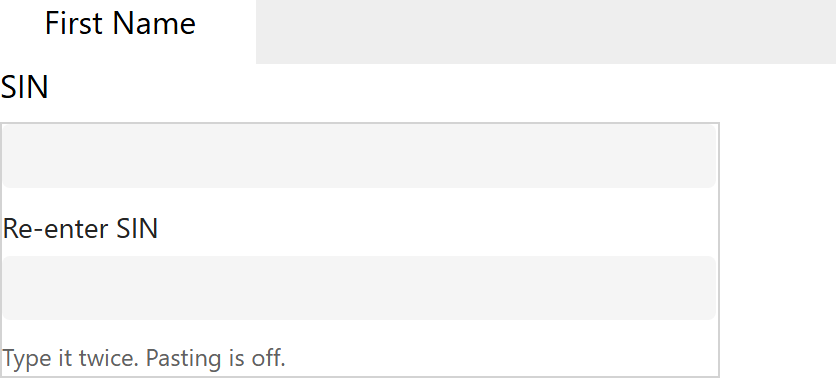
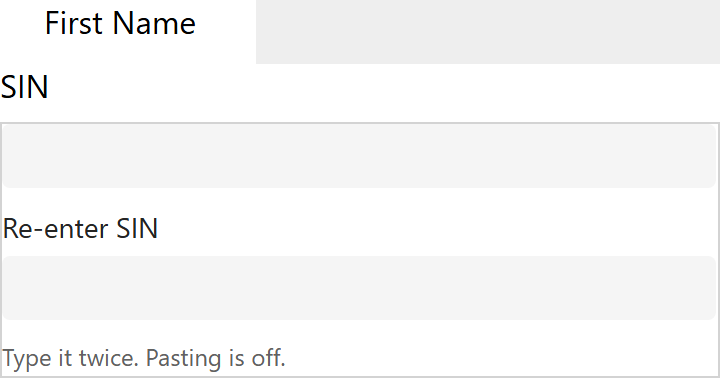
Labels line up with the form: hidden label borrows the section's label column, side by side keeps Re-enter beside
From the user's review of the real form at 1920px. A hidden cell label
makes the first label take the section's own label column, measured from a
sibling cell, so the first input lines up with the stock fields. Side by
side with no first label, "Re-enter" goes beside the second input rather
than above it, so the two inputs share a line. Side by side, each field
grows from its label column so the inputs come out equal, and the input's
grid track is minmax(0, 1fr) so a 248px label column in a narrow cell
shrinks the inputs instead of pushing one over the second label.

Harness: wrapInFormCell takes the control width and the fake label column
and sizes the cell itself, which the tests need to get a side-by-side
layout inside a cell. Manifest 0.3.5 pushed to the test env; the fixture
form shows all nine cells as intended.

diff --git a/SealedInput/SealedInput/SealedInputView.tsx b/SealedInput/SealedInput/SealedInputView.tsx
@@ -40,10 +40,12 @@ const useStyles = makeStyles({
   // Fluent's horizontal Field reserves a third of the width for the label
   // (and pads a label-less field by as much); ours is a word or two, and the
   // measured width goes in as an inline style once known.
-  fieldInline: { gridTemplateColumns: "auto 1fr", paddingLeft: 0 },
+  // minmax(0, 1fr) lets the input shrink below its intrinsic width, which an
+  // <input> keeps otherwise and overflows a narrow cell with.
+  fieldInline: { gridTemplateColumns: "auto minmax(0, 1fr)", paddingLeft: 0 },
   labelText: { whiteSpace: "nowrap" },
   hint: { color: tokens.colorNeutralForeground3 },
-  input: { width: "100%" },
+  input: { width: "100%", minWidth: 0 },
 });
 
 /** Attributes that keep browsers and password managers from filling or remembering the field. */
@@ -84,7 +86,9 @@ export const SealedInputView: React.FC<ISealedInputViewProps> = ({ stored, disab
       // Same answer, same object: a fresh object on every read would re-render
       // without end, since this runs again after each render.
       const next = readFormLabel(el);
-      setFormLabel((prev) => (prev?.shown === next?.shown && prev?.position === next?.position && (prev === null) === (next === null) ? prev : next));
+      setFormLabel((prev) =>
+        prev?.shown === next?.shown && prev?.position === next?.position && prev?.labelWidth === next?.labelWidth && (prev === null) === (next === null) ? prev : next,
+      );
     };
     read();
     if (typeof ResizeObserver === "undefined") return;
@@ -93,30 +97,46 @@ export const SealedInputView: React.FC<ISealedInputViewProps> = ({ stored, disab
     return () => ro.disconnect();
   }, []);
   const side = sideBySide(layout, width);
-  const labels = planLabels(label, formLabel);
+  const labels = planLabels(label, formLabel, side);
+  // An unlabelled first field takes the second field's orientation, so that
+  // stacked it can be indented to line up and side by side it stays on the line.
+  const firstInline = labels.first === null ? labels.secondInline : labels.firstInline;
   // Classes are combined with mergeClasses, never by string: two Griffel
   // sequences side by side leave the cascade to stylesheet insertion order,
   // which differs between page loads in the form host.
-  const fieldClass = mergeClasses(styles.field, labels.inline && styles.fieldInline);
-  const orientation = labels.inline ? "horizontal" : "vertical";
+  const firstClass = mergeClasses(styles.field, firstInline && styles.fieldInline);
+  const secondClass = mergeClasses(styles.field, labels.secondInline && styles.fieldInline);
 
-  // Inline labels: the two fields are separate grids, so they are given the
-  // same label column, as wide as the wider label text plus Fluent's label
-  // margin. Stacked, a label-less first field is indented by the same amount
-  // so the two inputs line up; side by side it takes its whole half.
+  // Label columns for labels beside their field. The first label's column is
+  // the form's own label column when a hidden cell label left it to us, so the
+  // first input lines up with the neighbouring cells; otherwise the text plus
+  // Fluent's label margin. The second label's column is its text. Stacked with
+  // both labels beside, the two fields share the wider column so the inputs
+  // line up; stacked with no first label, the first field is indented by the
+  // second's column for the same reason.
   const firstLabelRef = React.useRef<HTMLSpanElement>(null);
   const secondLabelRef = React.useRef<HTMLSpanElement>(null);
-  const [labelCol, setLabelCol] = React.useState(0);
+  const [cols, setCols] = React.useState({ first: 0, second: 0 });
   React.useLayoutEffect(() => {
-    if (!labels.inline) return;
-    const widths = [firstLabelRef.current, secondLabelRef.current].map((el) => el?.getBoundingClientRect().width ?? 0);
-    const col = Math.ceil(Math.max(...widths)) + 12; // spacingHorizontalM
-    if (col !== labelCol) setLabelCol(col);
-  }, [labels.inline, labels.first, labels.second, side]);
-  const fieldStyle = labels.inline && labelCol > 0 ? { gridTemplateColumns: `${labelCol}px 1fr` } : undefined;
-  // Without a label the input would land in the label column; give it the only column.
+    const textCol = (el: HTMLElement | null) => Math.ceil(el?.getBoundingClientRect().width ?? 0) + 12; // spacingHorizontalM
+    const formCol = formLabel?.labelWidth ?? 0;
+    const own = labels.first !== null && labels.firstInline ? (formCol > 0 ? formCol : textCol(firstLabelRef.current)) : 0;
+    const re = labels.secondInline ? textCol(secondLabelRef.current) : 0;
+    const shared = !side && own > 0 && re > 0 ? Math.max(own, re) : null;
+    const next = { first: shared ?? own, second: shared ?? re };
+    if (next.first !== cols.first || next.second !== cols.second) setCols(next);
+  }, [labels.first, labels.second, labels.firstInline, labels.secondInline, side, formLabel]);
+  // Side by side, each field's share of the line grows from its label column,
+  // so the two inputs come out the same width.
+  const grow = (col: number) => (side ? { flex: `1 1 ${col}px` } : {});
+  const secondFieldStyle = labels.secondInline && cols.second > 0 ? { gridTemplateColumns: `${cols.second}px minmax(0, 1fr)`, ...grow(cols.second) } : undefined;
   const firstFieldStyle =
-    labels.inline && labels.first === null ? { gridTemplateColumns: "1fr", paddingLeft: !side && labelCol > 0 ? `${labelCol}px` : 0 } : fieldStyle;
+    labels.first !== null && labels.firstInline && cols.first > 0
+      ? { gridTemplateColumns: `${cols.first}px minmax(0, 1fr)`, ...grow(cols.first) }
+      : // Without a label the input would land in the label column; give it the only column.
+        labels.first === null && firstInline
+        ? { gridTemplateColumns: "minmax(0, 1fr)", paddingLeft: !side && cols.second > 0 ? `${cols.second}px` : 0, ...grow(0) }
+        : undefined;
   // Fluent's Label lays its children out as a list, hence the key.
   const labelNode = (text: string | null, ref: React.RefObject<HTMLSpanElement>) =>
     text === null ? undefined : (
@@ -262,15 +282,15 @@ export const SealedInputView: React.FC<ISealedInputViewProps> = ({ stored, disab
       data-layout={side ? "side-by-side" : "stacked"}
       data-state={state}
       data-labels={labels.first === null ? "reenter-only" : "both"}
-      data-label-position={labels.inline ? "inline" : "above"}
+      data-label-position={labels.secondInline ? "inline" : "above"}
       data-form-label={formLabel === null ? "none" : formLabel.shown ? "shown" : "hidden"}
       ref={rootRef}
     >
       <div className={mergeClasses(styles.fields, side && styles.fieldsSide)}>
         <Field
           label={labelNode(labels.first, firstLabelRef)}
-          orientation={orientation}
-          className={fieldClass}
+          orientation={firstInline ? "horizontal" : "vertical"}
+          className={firstClass}
           style={firstFieldStyle}
           validationState={firstError ? "error" : "none"}
           validationMessage={firstError ?? undefined}
@@ -294,9 +314,9 @@ export const SealedInputView: React.FC<ISealedInputViewProps> = ({ stored, disab
         </Field>
         <Field
           label={labelNode(labels.second, secondLabelRef)}
-          orientation={orientation}
-          className={fieldClass}
-          style={fieldStyle}
+          orientation={labels.secondInline ? "horizontal" : "vertical"}
+          className={secondClass}
+          style={secondFieldStyle}
           validationState={secondError ? "error" : "none"}
           validationMessage={secondError ?? undefined}
         >

diff --git a/SealedInput/SealedInput/formLabel.ts b/SealedInput/SealedInput/formLabel.ts
@@ -1,4 +1,4 @@
-import { Box, FormLabel, labelPlacement } from "./sealedInput";
+import { Box, FormLabel, Placement, labelPlacement } from "./sealedInput";
 
 // Reads the form's own cell label from the DOM around the control. Unified
 // Interface puts each field in a container whose data-id ends in
@@ -26,14 +26,17 @@ function cellLabel(container: Element, except: Element | null): HTMLLabelElement
   return labels.find((l) => l.id.endsWith("-field-label")) ?? labels[0] ?? null;
 }
 
-/** Where a sibling cell's label sits relative to that cell's control area. */
-function siblingPlacement(container: Element): FormLabel["position"] {
+/**
+ * Where a sibling cell's label sits relative to that cell's control area, and
+ * how far that area starts from the cell's left edge (the label column).
+ */
+function siblingPlacement(container: Element): { position: Placement; areaOffset: number } | null {
   const label = cellLabel(container, null);
   if (!label || !visible(label)) return null;
   // The label's wrapper is followed by the control area.
   const area = label.parentElement?.nextElementSibling;
   if (!area || !visible(area)) return null;
-  return labelPlacement(box(label), box(area));
+  return { position: labelPlacement(box(label), box(area)), areaOffset: box(area).left - box(container).left };
 }
 
 /** What the form shows for this control's cell, or null outside a recognised form cell. */
@@ -41,13 +44,18 @@ export function readFormLabel(root: HTMLElement): FormLabel | null {
   const container = root.closest(CONTAINER);
   if (!container) return null;
   const label = cellLabel(container, root);
-  if (label && visible(label)) return { shown: true, position: labelPlacement(box(label), box(root)) };
-  // Label hidden for this cell: borrow the position from another cell in the section.
+  if (label && visible(label)) return { shown: true, position: labelPlacement(box(label), box(root)), labelWidth: null };
+  // Label hidden for this cell: borrow the position and the label column from
+  // another cell in the section. The column is measured from where this
+  // control starts, which is the cell's left edge or thereabouts.
   const section = container.closest("section") ?? container.parentElement;
   const siblings = section ? Array.from(section.querySelectorAll(CONTAINER)).filter((c) => c !== container) : [];
   for (const s of siblings) {
     const p = siblingPlacement(s);
-    if (p) return { shown: false, position: p };
+    if (!p) continue;
+    const ownOffset = box(root).left - box(container).left;
+    const labelWidth = p.position === "inline" ? Math.max(0, Math.round(p.areaOffset - ownOffset)) : null;
+    return { shown: false, position: p.position, labelWidth };
   }
-  return { shown: false, position: null };
+  return { shown: false, position: null, labelWidth: null };
 }

diff --git a/SealedInput/SealedInput/sealedInput.ts b/SealedInput/SealedInput/sealedInput.ts
@@ -111,6 +111,13 @@ export interface FormLabel {
   shown: boolean;
   /** Where the section puts cell labels; null when it could not be told. */
   position: Placement | null;
+  /**
+   * Width of the section's label column as seen from the control's left
+   * edge, in px, when the section puts labels on the left; null when unknown.
+   * A hidden cell label uses it so the first input lines up with the
+   * neighbouring cells.
+   */
+  labelWidth: number | null;
 }
 
 export interface Box {
@@ -126,23 +133,30 @@ export function labelPlacement(label: Box, control: Box): Placement {
 }
 
 export interface LabelPlan {
-  /** Label text on the first field, or null for none. */
+  /** Label text on the first field, or null when the form names the column. */
   first: string | null;
+  /** The first label sits beside its field rather than above it. */
+  firstInline: boolean;
   /** Label text on the second field. */
   second: string;
-  /** Labels sit beside the fields rather than above them. */
-  inline: boolean;
+  /** The second label sits beside its field rather than above it. */
+  secondInline: boolean;
 }
 
 /**
  * The labels to draw. `form` is what the DOM said, or null when the control
  * is not inside a form cell it recognises (the test harness); then the form
- * label counts as hidden and the position as above.
+ * label counts as hidden and the position as above. `side` is whether the
+ * two fields share a line: then an unlabelled first field next to a labelled
+ * second one would put the inputs on different lines, so the second label
+ * goes beside its input instead.
  */
-export function planLabels(label: string, form: FormLabel | null): LabelPlan {
-  const both = !(form?.shown ?? false);
+export function planLabels(label: string, form: FormLabel | null, side: boolean): LabelPlan {
+  const shown = form?.shown ?? false;
   const inline = form?.position === "inline";
-  // Beside the field, with the form already naming the column, "Re-enter" is enough.
-  const second = both || !inline ? `Re-enter ${label}` : "Re-enter";
-  return { first: both ? label : null, second, inline };
+  const secondInline = inline || (shown && side);
+  // Beside the field, with the column already named on that line by the form
+  // or by the first label, "Re-enter" is enough.
+  const second = secondInline ? "Re-enter" : `Re-enter ${label}`;
+  return { first: shown ? null : label, firstInline: inline, second, secondInline };
 }

diff --git a/docs/usage.md b/docs/usage.md
@@ -89,15 +89,23 @@ When the form is read-only both fields are disabled and show eight dots, or
 nothing when the column is empty.
 
 Inside a form cell the labels follow the form. With the cell label shown on
-the left, only "Re-enter" appears, beside the second field; with the cell
-label on top, "Re-enter SIN" appears above the second field; with the cell
-label hidden, both fields are labelled, placed like the neighbouring cells.
-The fields are always named after the column's display name; there is no
+the left, only "Re-enter" appears, beside the second field. With the cell
+label on top, "Re-enter SIN" appears above the second field when the fields
+stack; when they share a line, "Re-enter" goes beside the second input so
+the two inputs stay on that line. With the cell label hidden, both fields
+are labelled, placed like the neighbouring cells, and the first label takes
+the section's own label column so the first input lines up with the stock
+fields around it. Side by side, the two inputs come out the same width. The
+fields are always named after the column's display name; there is no
 setting for the wording, which labels go, or where they sit.
 
-| Cell label on the left | Cell label on top | Cell label hidden |
+| Cell label on the left | Cell label on top, fields stacked | Cell label on top, fields side by side |
 |---|---|---|
-| ![Re-enter beside the second field](img/labels-form-left.png) | ![Re-enter SIN above the second field](img/labels-form-top.png) | ![both labels beside the fields](img/labels-form-hidden.png) |
+| ![Re-enter beside the second field](img/labels-form-left.png) | ![Re-enter SIN above the second field](img/labels-form-top.png) | ![Re-enter beside the second input](img/labels-form-top-wide.png) |
+
+| Cell label hidden | Cell label hidden, wide label column in a narrow cell |
+|---|---|
+| ![both labels beside the fields, the first in the form's label column](img/labels-form-hidden.png) | ![the inputs shrink rather than overflow](img/labels-form-hidden-narrow.png) |
 
 ## Configuration
 

diff --git a/README.md b/README.md
@@ -96,7 +96,16 @@ Each of these was an open question in the first README.
   and were removed the same day on the user's call: the form decides, nothing
   is configurable, and the fields are always named after the column. The DOM
   reading has no manual escape hatch; if it misreads, the fix is a new
-  version. Reading the form is DOM sniffing: the control sits in a
+  version. Alignment, from the user's review of the real form the same
+  evening: a hidden cell label makes the first label take the section's own
+  label column, measured from a sibling cell, so the first input lines up
+  with the stock fields; side by side with no first label, "Re-enter" goes
+  beside the second input rather than above it, so the inputs share a line;
+  side by side, each field grows from its label column so the two inputs
+  come out equal; the input's grid track is minmax(0, 1fr) because an
+  <input> otherwise keeps its intrinsic width and overflowed a narrow cell
+  whose section gave it a 248px label column. Reading the form is DOM
+  sniffing: the control sits in a
   container whose data-id ends in FieldSectionItemContainer, with the cell
   label as a `<label>` whose id ends in `-field-label`; left vs above is
   decided from bounding boxes, and a hidden label borrows the position from a
